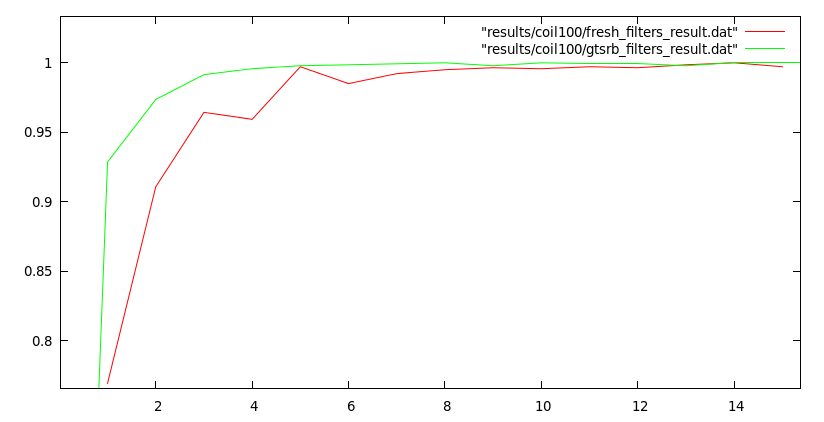
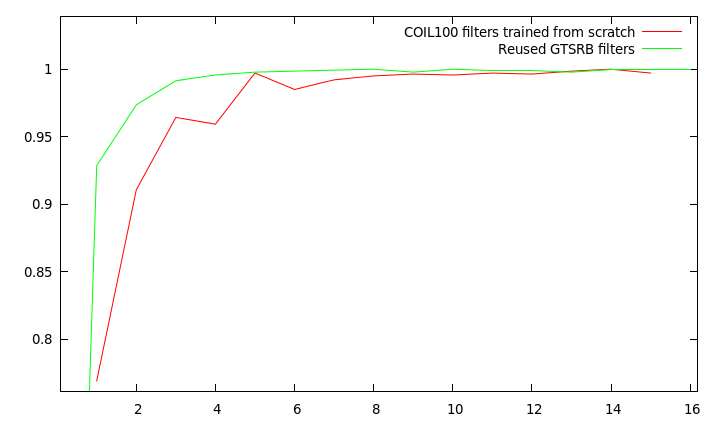
Edited and added plots

diff --git a/doc/documentation_mielers_schroer.tex b/doc/documentation_mielers_schroer.tex
@@ -187,6 +187,13 @@ After achieving excellent results on the COIL100 dataset, we tried to get simila
 
 The problem appears to be harder than the COIL100 problem, because the persons in the INRIA dataset are more similar to each other than the objects in the other dataset.
 
+\begin{figure}[h!]
+	\centering
+	\includegraphics[width=1\textwidth]{inria_results.png}
+	\caption{Results on the INRIA dataset with filters completely trained from scratch and with reused GTSRB filters.}
+	\label{fig:inria_results}
+\end{figure}
+
 \begin{appendix}
 	\section{Implementation}
 	\section{Visualization}
